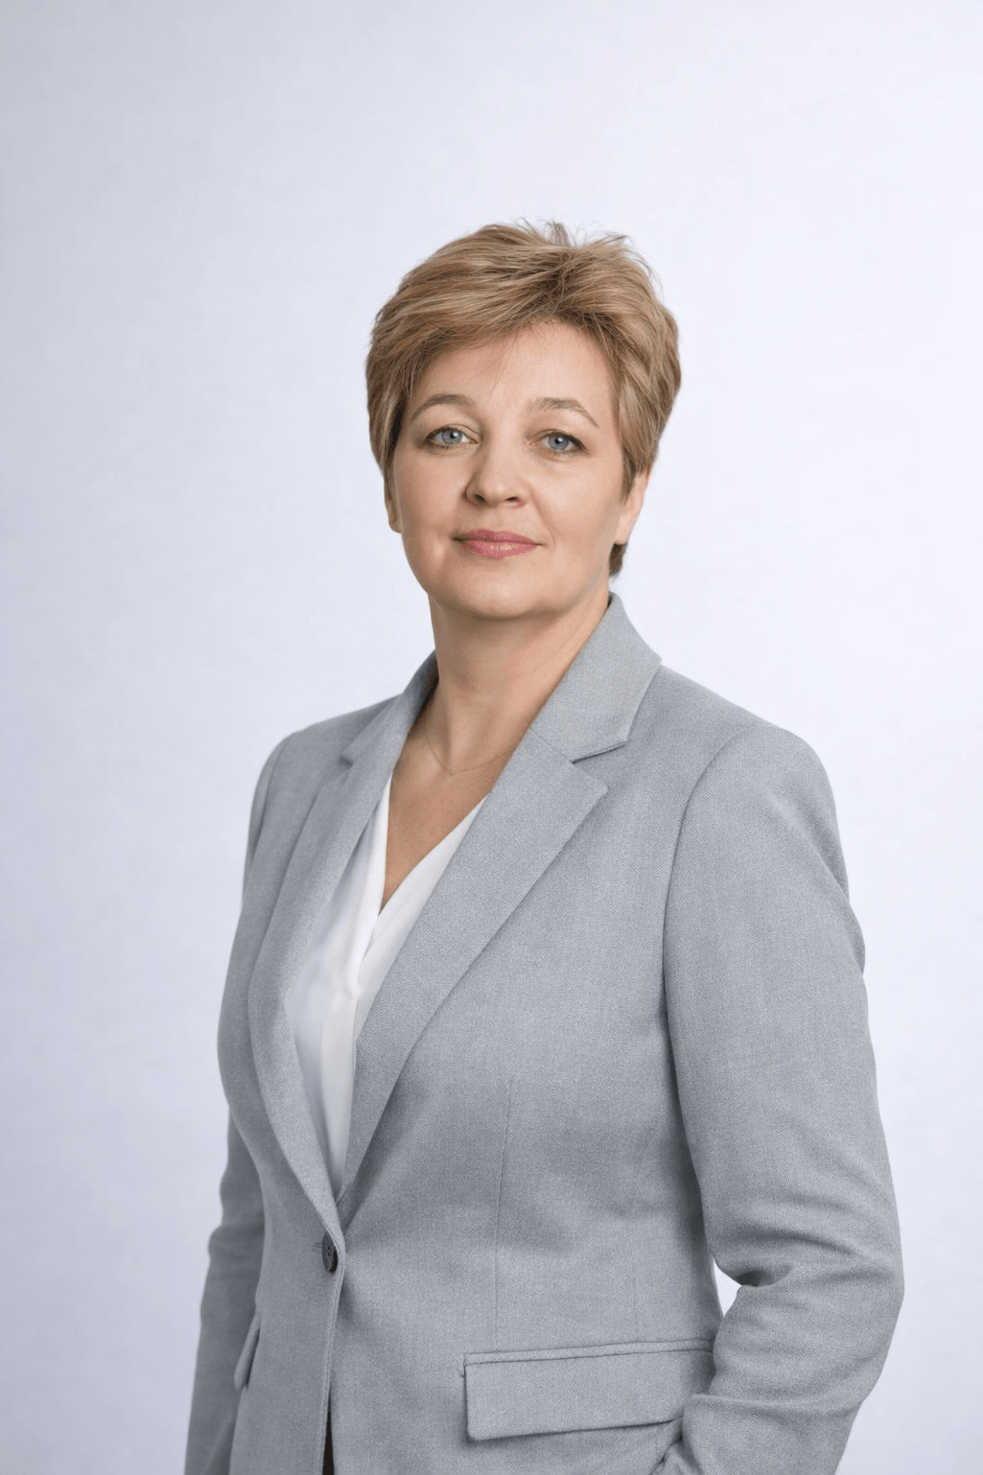
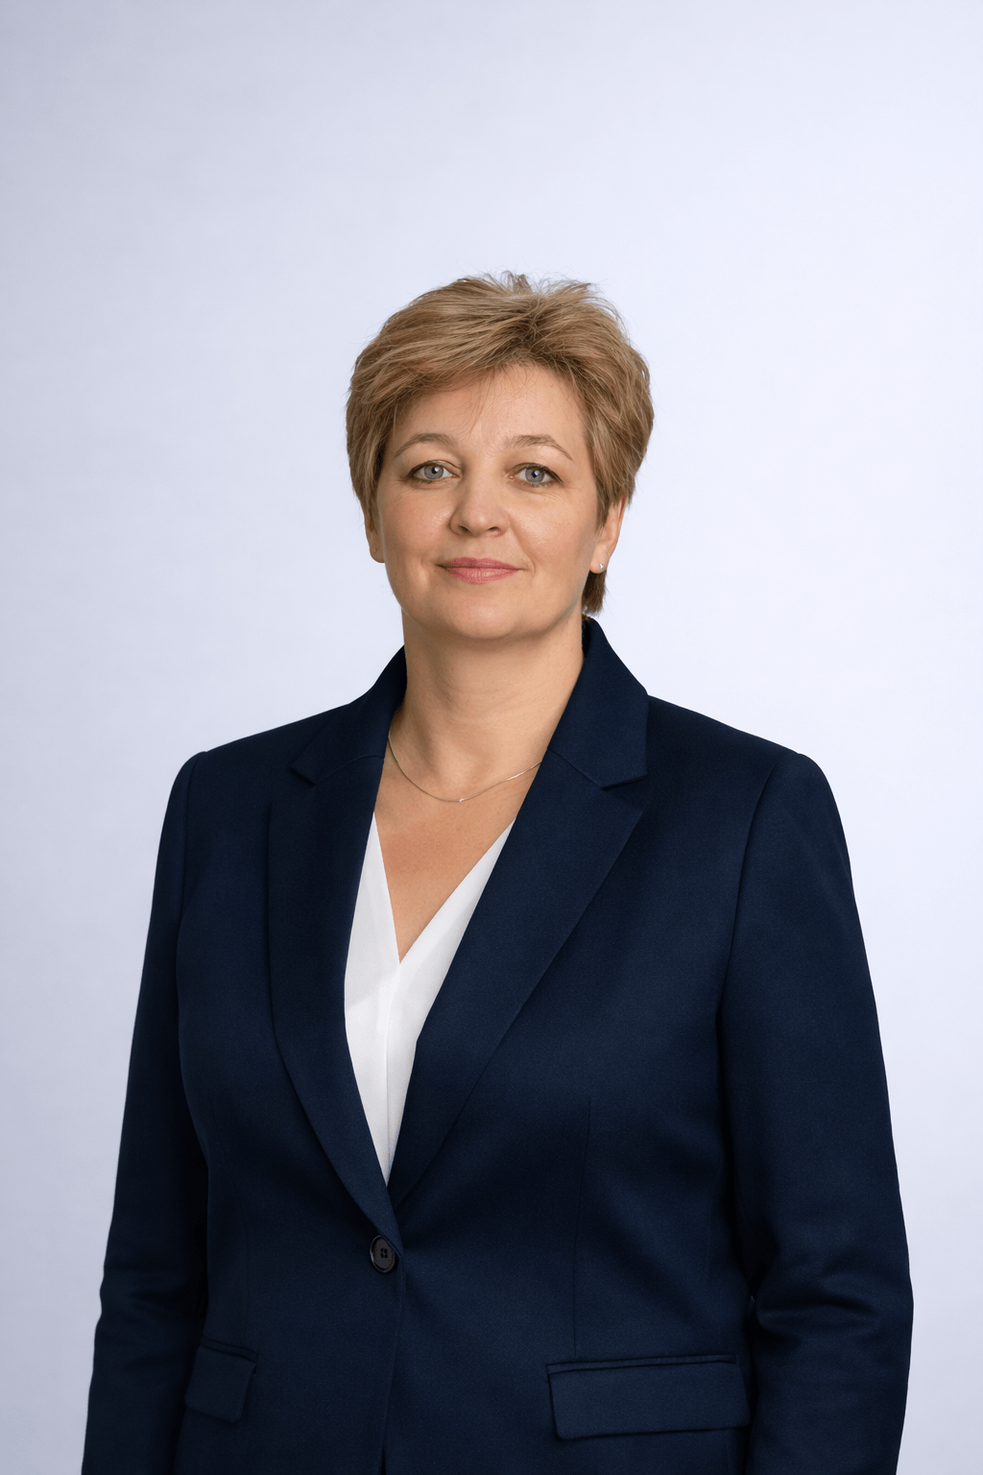
perf: optimize pagespeed and add new galina photo
- Add preconnect links for Tailwind CDN and Google Fonts
- Add explicit width/height to all images (prevent CLS)
- Add loading="lazy" to below-fold images
- Add fetchpriority="high" to header logos
- Update galina-chernova.png photo

diff --git a/index.html b/index.html
@@ -1,10 +1,20 @@
 <!DOCTYPE html>
 <html lang="ru">
 <head>
+
+    <!-- Preconnect для внешних ресурсов -->
+    <link rel="preconnect" href="https://cdn.tailwindcss.com">
+    <link rel="preconnect" href="https://fonts.googleapis.com">
+    <link rel="preconnect" href="https://fonts.gstatic.com" crossorigin>
     <meta charset="UTF-8">
     <meta name="viewport" content="width=device-width, initial-scale=1.0">
     <title>Школа тендерного обучения «Фрегат» — Профессия Тендерный специалист</title>
     <meta name="description" content="Онлайн-школа Фрегат. Обучение тендерному делу с нуля. Госзакупки, 44-ФЗ, 223-ФЗ. Удостоверение о повышении квалификации и сертификат.">
+
+    <!-- Preconnect для внешних ресурсов -->
+    <link rel="preconnect" href="https://cdn.tailwindcss.com">
+    <link rel="preconnect" href="https://fonts.googleapis.com">
+    <link rel="preconnect" href="https://fonts.gstatic.com" crossorigin>
 
     <!-- Content Security Policy -->
     <meta http-equiv="Content-Security-Policy" content="script-src 'self' 'unsafe-inline' https://cdn.tailwindcss.com; connect-src 'self'; style-src 'self' https://fonts.googleapis.com 'unsafe-inline'; img-src 'self' https: data:;">
@@ -138,7 +148,7 @@
     <header class="fixed w-full top-0 z-50 backdrop-blur-md border-b border-white/10" style="background-color: rgba(20, 33, 37, 0.95);">
         <div class="max-w-7xl mx-auto px-4 sm:px-6 lg:px-8 flex justify-between items-center h-20">
             <a href="index.html" class="flex items-center gap-3">
-                <img src="https://z-cdn-media.chatglm.cn/files/13817077-3fd8-4076-ab8b-31702a8b0e59.png?auth_key=1873167472-1ad3307f6b1647739973096b31e2b490-0-f38e570a642956a5ac3e872ef08c03d4" alt="Логотип Фрегат" class="h-12 w-auto logo-clean">
+                <img src="https://z-cdn-media.chatglm.cn/files/13817077-3fd8-4076-ab8b-31702a8b0e59.png?auth_key=1873167472-1ad3307f6b1647739973096b31e2b490-0-f38e570a642956a5ac3e872ef08c03d4" alt="Логотип Фрегат" class="h-12 w-auto logo-clean" width="200" height="48" fetchpriority="high">
                 <span class="text-2xl font-light tracking-widest text-gold-gradient">ФРЕГАТ</span>
             </a>
             <nav class="hidden md:flex gap-10 text-sm text-gray-300">
@@ -608,7 +618,7 @@
             <div class="grid md:grid-cols-2 gap-8 items-stretch">
                 <!-- Фарида -->
                 <div class="bg-[#0d181b] border border-white/10 rounded-2xl p-8 animate-section flex flex-col">
-                    <img src="assets/images/farida.jpg" alt="Фарида Максумова — основатель Школы Фрегат" class="w-24 h-24 rounded-full mx-auto mb-4 object-cover object-top border-2 border-gold/30">
+                    <img src="assets/images/farida.jpg" alt="Фарида Максумова — основатель Школы Фрегат" class="w-24 h-24 rounded-full mx-auto mb-4 object-cover object-top border-2 border-gold/30" width="96" height="96" loading="lazy">
                     <h3 class="text-xl font-bold mb-1 text-white text-center">Фарида Максумова</h3>
                     <p class="text-gold-gradient text-xs mb-4 uppercase tracking-wider text-center">Генеральный директор ООО «ФРЕГАТ»</p>
 
@@ -634,7 +644,7 @@
 
                 <!-- Галина -->
                 <div class="bg-[#0d181b] border border-white/10 rounded-2xl p-8 animate-section flex flex-col">
-                    <img src="assets/images/galina-chernova.png" alt="Галина Чернова — главный эксперт по тендерам" class="w-24 h-24 rounded-full mx-auto mb-4 object-cover object-top border-2 border-gold/30">
+                    <img src="assets/images/galina-chernova.png" alt="Галина Чернова — главный эксперт по тендерам" class="w-24 h-24 rounded-full mx-auto mb-4 object-cover object-top border-2 border-gold/30" width="96" height="96" loading="lazy">
                     <h3 class="text-xl font-bold mb-1 text-white text-center">Галина Чернова</h3>
                     <p class="text-gold-gradient text-xs mb-4 uppercase tracking-wider text-center">Главный эксперт по тендерам</p>
 
@@ -1156,7 +1166,7 @@
                 <!-- Логотип и описание -->
                 <div>
                     <div class="flex items-center gap-3 mb-4">
-                        <img src="https://z-cdn-media.chatglm.cn/files/13817077-3fd8-4076-ab8b-31702a8b0e59.png?auth_key=1873167472-1ad3307f6b1647739973096b31e2b490-0-f38e570a642956a5ac3e872ef08c03d4" alt="Логотип Фрегат" class="h-8 w-auto logo-clean">
+                        <img src="https://z-cdn-media.chatglm.cn/files/13817077-3fd8-4076-ab8b-31702a8b0e59.png?auth_key=1873167472-1ad3307f6b1647739973096b31e2b490-0-f38e570a642956a5ac3e872ef08c03d4" alt="Логотип Фрегат" class="h-8 w-auto logo-clean" width="150" height="32" loading="lazy">
                         <span class="text-xl font-light tracking-widest text-gold-gradient">ФРЕГАТ</span>
                     </div>
                     <p class="text-gray-500 text-sm">

diff --git a/prepodavateli.html b/prepodavateli.html
@@ -1,6 +1,11 @@
 <!DOCTYPE html>
 <html lang="ru">
 <head>
+
+    <!-- Preconnect для внешних ресурсов -->
+    <link rel="preconnect" href="https://cdn.tailwindcss.com">
+    <link rel="preconnect" href="https://fonts.googleapis.com">
+    <link rel="preconnect" href="https://fonts.gstatic.com" crossorigin>
     <meta charset="UTF-8">
     <meta name="viewport" content="width=device-width, initial-scale=1.0">
     <title>Ваши наставники — Школа Фрегат</title>
@@ -111,7 +116,7 @@
     <header class="fixed w-full top-0 z-50 backdrop-blur-md border-b border-white/10" style="background-color: rgba(20, 33, 37, 0.95);">
         <div class="max-w-7xl mx-auto px-4 sm:px-6 lg:px-8 flex justify-between items-center h-20">
             <a href="index.html" class="flex items-center gap-3">
-                <img src="https://z-cdn-media.chatglm.cn/files/13817077-3fd8-4076-ab8b-31702a8b0e59.png?auth_key=1873167472-1ad3307f6b1647739973096b31e2b490-0-f38e570a642956a5ac3e872ef08c03d4" alt="Логотип Фрегат" class="h-12 w-auto logo-clean">
+                <img src="https://z-cdn-media.chatglm.cn/files/13817077-3fd8-4076-ab8b-31702a8b0e59.png?auth_key=1873167472-1ad3307f6b1647739973096b31e2b490-0-f38e570a642956a5ac3e872ef08c03d4" alt="Логотип Фрегат" class="h-12 w-auto logo-clean" width="200" height="48" fetchpriority="high">
                 <span class="text-2xl font-light tracking-widest text-gold-gradient">ФРЕГАТ</span>
             </a>
             <nav class="hidden md:flex gap-10 text-sm text-gray-300 items-center">
@@ -149,7 +154,7 @@
 
                 <!-- Фарида — Основатель школы -->
                 <div class="card" id="farida">
-                    <img src="assets/images/farida.jpg" alt="Фарида Максумова — основатель Школы Фрегат" class="w-32 h-32 rounded-full mx-auto mb-4 object-cover object-top border-2 border-gold/30">
+                    <img src="assets/images/farida.jpg" alt="Фарида Максумова — основатель Школы Фрегат" class="w-32 h-32 rounded-full mx-auto mb-4 object-cover object-top border-2 border-gold/30" width="128" height="128" loading="lazy">
                     <h3 class="text-xl font-semibold mb-2 text-center">Фарида Максумова</h3>
                     <p class="text-gold mb-3 text-center text-sm">Генеральный директор ООО «ФРЕГАТ»</p>
                     <div class="text-gray-400 text-sm space-y-2 mb-4">
@@ -166,7 +171,7 @@
 
                 <!-- Галина — Главный эксперт -->
                 <div class="card" id="galina">
-                    <img src="assets/images/galina-chernova.png" alt="Галина Чернова — главный эксперт по тендерам" class="w-32 h-32 rounded-full mx-auto mb-4 object-cover object-top border-2 border-gold/30">
+                    <img src="assets/images/galina-chernova.png" alt="Галина Чернова — главный эксперт по тендерам" class="w-32 h-32 rounded-full mx-auto mb-4 object-cover object-top border-2 border-gold/30" width="128" height="128" loading="lazy">
                     <h3 class="text-xl font-semibold mb-2 text-center">Галина Чернова</h3>
                     <p class="text-gold mb-3 text-center text-sm">Главный эксперт по тендерам</p>
                     <div class="text-gray-400 text-sm space-y-2 mb-4">
@@ -311,7 +316,7 @@
                 <!-- Логотип и описание -->
                 <div>
                     <div class="flex items-center gap-3 mb-4">
-                        <img src="https://z-cdn-media.chatglm.cn/files/13817077-3fd8-4076-ab8b-31702a8b0e59.png?auth_key=1873167472-1ad3307f6b1647739973096b31e2b490-0-f38e570a642956a5ac3e872ef08c03d4" alt="Логотип Фрегат" class="h-8 w-auto logo-clean">
+                        <img src="https://z-cdn-media.chatglm.cn/files/13817077-3fd8-4076-ab8b-31702a8b0e59.png?auth_key=1873167472-1ad3307f6b1647739973096b31e2b490-0-f38e570a642956a5ac3e872ef08c03d4" alt="Логотип Фрегат" class="h-8 w-auto logo-clean" width="150" height="32" loading="lazy">
                         <span class="text-xl font-light tracking-widest text-gold-gradient">ФРЕГАТ</span>
                     </div>
                     <p class="text-gray-500 text-sm">

diff --git a/svedeniya-ob-obrazovatelnoy-organizatsii.html b/svedeniya-ob-obrazovatelnoy-organizatsii.html
@@ -1,6 +1,11 @@
 <!DOCTYPE html>
 <html lang="ru">
 <head>
+
+    <!-- Preconnect для внешних ресурсов -->
+    <link rel="preconnect" href="https://cdn.tailwindcss.com">
+    <link rel="preconnect" href="https://fonts.googleapis.com">
+    <link rel="preconnect" href="https://fonts.gstatic.com" crossorigin>
     <meta charset="UTF-8">
     <meta name="viewport" content="width=device-width, initial-scale=1.0">
     <title>Сведения об образовательной организации — Школа Фрегат</title>
@@ -200,7 +205,7 @@
     <header class="fixed w-full top-0 z-50 backdrop-blur-md border-b border-white/10" style="background-color: rgba(20, 33, 37, 0.95);">
         <div class="max-w-7xl mx-auto px-4 sm:px-6 lg:px-8 flex justify-between items-center h-20">
             <a href="index.html" class="flex items-center gap-3">
-                <img src="https://z-cdn-media.chatglm.cn/files/13817077-3fd8-4076-ab8b-31702a8b0e59.png?auth_key=1873167472-1ad3307f6b1647739973096b31e2b490-0-f38e570a642956a5ac3e872ef08c03d4" alt="Логотип Фрегат" class="h-12 w-auto logo-clean">
+                <img src="https://z-cdn-media.chatglm.cn/files/13817077-3fd8-4076-ab8b-31702a8b0e59.png?auth_key=1873167472-1ad3307f6b1647739973096b31e2b490-0-f38e570a642956a5ac3e872ef08c03d4" alt="Логотип Фрегат" class="h-12 w-auto logo-clean" width="200" height="48" fetchpriority="high">
                 <span class="text-2xl font-light tracking-widest text-gold-gradient">ФРЕГАТ</span>
             </a>
             <nav class="hidden md:flex gap-10 text-sm text-gray-300 items-center">
@@ -814,7 +819,7 @@
                 <!-- Логотип и описание -->
                 <div>
                     <div class="flex items-center gap-3 mb-4">
-                        <img src="https://z-cdn-media.chatglm.cn/files/13817077-3fd8-4076-ab8b-31702a8b0e59.png?auth_key=1873167472-1ad3307f6b1647739973096b31e2b490-0-f38e570a642956a5ac3e872ef08c03d4" alt="Логотип Фрегат" class="h-8 w-auto logo-clean">
+                        <img src="https://z-cdn-media.chatglm.cn/files/13817077-3fd8-4076-ab8b-31702a8b0e59.png?auth_key=1873167472-1ad3307f6b1647739973096b31e2b490-0-f38e570a642956a5ac3e872ef08c03d4" alt="Логотип Фрегат" class="h-8 w-auto logo-clean" width="150" height="32" loading="lazy">
                         <span class="text-xl font-light tracking-widest text-gold-gradient">ФРЕГАТ</span>
                     </div>
                     <p class="text-gray-500 text-sm">

diff --git a/politika-konfidentsialnosti.html b/politika-konfidentsialnosti.html
@@ -1,6 +1,11 @@
 <!DOCTYPE html>
 <html lang="ru">
 <head>
+
+    <!-- Preconnect для внешних ресурсов -->
+    <link rel="preconnect" href="https://cdn.tailwindcss.com">
+    <link rel="preconnect" href="https://fonts.googleapis.com">
+    <link rel="preconnect" href="https://fonts.gstatic.com" crossorigin>
     <meta charset="UTF-8">
     <meta name="viewport" content="width=device-width, initial-scale=1.0">
     <title>Политика конфиденциальности — Школа Фрегат</title>
@@ -91,7 +96,7 @@
     <header class="fixed w-full top-0 z-50 backdrop-blur-md border-b border-white/10" style="background-color: rgba(20, 33, 37, 0.95);">
         <div class="max-w-7xl mx-auto px-4 sm:px-6 lg:px-8 flex justify-between items-center h-20">
             <a href="index.html" class="flex items-center gap-3">
-                <img src="https://z-cdn-media.chatglm.cn/files/13817077-3fd8-4076-ab8b-31702a8b0e59.png?auth_key=1873167472-1ad3307f6b1647739973096b31e2b490-0-f38e570a642956a5ac3e872ef08c03d4" alt="Логотип Фрегат" class="h-12 w-auto logo-clean">
+                <img src="https://z-cdn-media.chatglm.cn/files/13817077-3fd8-4076-ab8b-31702a8b0e59.png?auth_key=1873167472-1ad3307f6b1647739973096b31e2b490-0-f38e570a642956a5ac3e872ef08c03d4" alt="Логотип Фрегат" class="h-12 w-auto logo-clean" width="200" height="48" fetchpriority="high">
                 <span class="text-2xl font-light tracking-widest text-gold-gradient">ФРЕГАТ</span>
             </a>
             <nav class="hidden md:flex gap-10 text-sm text-gray-300 items-center">
@@ -263,7 +268,7 @@
             <div class="grid md:grid-cols-3 gap-8 mb-8">
                 <div>
                     <div class="flex items-center gap-3 mb-4">
-                        <img src="https://z-cdn-media.chatglm.cn/files/13817077-3fd8-4076-ab8b-31702a8b0e59.png?auth_key=1873167472-1ad3307f6b1647739973096b31e2b490-0-f38e570a642956a5ac3e872ef08c03d4" alt="Логотип Фрегат" class="h-8 w-auto logo-clean">
+                        <img src="https://z-cdn-media.chatglm.cn/files/13817077-3fd8-4076-ab8b-31702a8b0e59.png?auth_key=1873167472-1ad3307f6b1647739973096b31e2b490-0-f38e570a642956a5ac3e872ef08c03d4" alt="Логотип Фрегат" class="h-8 w-auto logo-clean" width="150" height="32" loading="lazy">
                         <span class="text-xl font-light tracking-widest text-gold-gradient">ФРЕГАТ</span>
                     </div>
                     <p class="text-gray-500 text-sm">

diff --git a/polzovatelskoe-soglashenie.html b/polzovatelskoe-soglashenie.html
@@ -1,6 +1,11 @@
 <!DOCTYPE html>
 <html lang="ru">
 <head>
+
+    <!-- Preconnect для внешних ресурсов -->
+    <link rel="preconnect" href="https://cdn.tailwindcss.com">
+    <link rel="preconnect" href="https://fonts.googleapis.com">
+    <link rel="preconnect" href="https://fonts.gstatic.com" crossorigin>
     <meta charset="UTF-8">
     <meta name="viewport" content="width=device-width, initial-scale=1.0">
     <title>Пользовательское соглашение — Школа Фрегат</title>
@@ -91,7 +96,7 @@
     <header class="fixed w-full top-0 z-50 backdrop-blur-md border-b border-white/10" style="background-color: rgba(20, 33, 37, 0.95);">
         <div class="max-w-7xl mx-auto px-4 sm:px-6 lg:px-8 flex justify-between items-center h-20">
             <a href="index.html" class="flex items-center gap-3">
-                <img src="https://z-cdn-media.chatglm.cn/files/13817077-3fd8-4076-ab8b-31702a8b0e59.png?auth_key=1873167472-1ad3307f6b1647739973096b31e2b490-0-f38e570a642956a5ac3e872ef08c03d4" alt="Логотип Фрегат" class="h-12 w-auto logo-clean">
+                <img src="https://z-cdn-media.chatglm.cn/files/13817077-3fd8-4076-ab8b-31702a8b0e59.png?auth_key=1873167472-1ad3307f6b1647739973096b31e2b490-0-f38e570a642956a5ac3e872ef08c03d4" alt="Логотип Фрегат" class="h-12 w-auto logo-clean" width="200" height="48" fetchpriority="high">
                 <span class="text-2xl font-light tracking-widest text-gold-gradient">ФРЕГАТ</span>
             </a>
             <nav class="hidden md:flex gap-10 text-sm text-gray-300 items-center">
@@ -292,7 +297,7 @@
             <div class="grid md:grid-cols-3 gap-8 mb-8">
                 <div>
                     <div class="flex items-center gap-3 mb-4">
-                        <img src="https://z-cdn-media.chatglm.cn/files/13817077-3fd8-4076-ab8b-31702a8b0e59.png?auth_key=1873167472-1ad3307f6b1647739973096b31e2b490-0-f38e570a642956a5ac3e872ef08c03d4" alt="Логотип Фрегат" class="h-8 w-auto logo-clean">
+                        <img src="https://z-cdn-media.chatglm.cn/files/13817077-3fd8-4076-ab8b-31702a8b0e59.png?auth_key=1873167472-1ad3307f6b1647739973096b31e2b490-0-f38e570a642956a5ac3e872ef08c03d4" alt="Логотип Фрегат" class="h-8 w-auto logo-clean" width="150" height="32" loading="lazy">
                         <span class="text-xl font-light tracking-widest text-gold-gradient">ФРЕГАТ</span>
                     </div>
                     <p class="text-gray-500 text-sm">

diff --git a/kontakty.html b/kontakty.html
@@ -1,6 +1,11 @@
 <!DOCTYPE html>
 <html lang="ru">
 <head>
+
+    <!-- Preconnect для внешних ресурсов -->
+    <link rel="preconnect" href="https://cdn.tailwindcss.com">
+    <link rel="preconnect" href="https://fonts.googleapis.com">
+    <link rel="preconnect" href="https://fonts.gstatic.com" crossorigin>
     <meta charset="UTF-8">
     <meta name="viewport" content="width=device-width, initial-scale=1.0">
     <title>Контакты — Школа Фрегат</title>
@@ -103,7 +108,7 @@
     <header class="fixed w-full top-0 z-50 backdrop-blur-md border-b border-white/10" style="background-color: rgba(20, 33, 37, 0.95);">
         <div class="max-w-7xl mx-auto px-4 sm:px-6 lg:px-8 flex justify-between items-center h-20">
             <a href="index.html" class="flex items-center gap-3">
-                <img src="https://z-cdn-media.chatglm.cn/files/13817077-3fd8-4076-ab8b-31702a8b0e59.png?auth_key=1873167472-1ad3307f6b1647739973096b31e2b490-0-f38e570a642956a5ac3e872ef08c03d4" alt="Логотип Фрегат" class="h-12 w-auto logo-clean">
+                <img src="https://z-cdn-media.chatglm.cn/files/13817077-3fd8-4076-ab8b-31702a8b0e59.png?auth_key=1873167472-1ad3307f6b1647739973096b31e2b490-0-f38e570a642956a5ac3e872ef08c03d4" alt="Логотип Фрегат" class="h-12 w-auto logo-clean" width="200" height="48" fetchpriority="high">
                 <span class="text-2xl font-light tracking-widest text-gold-gradient">ФРЕГАТ</span>
             </a>
             <nav class="hidden md:flex gap-10 text-sm text-gray-300">
@@ -223,7 +228,7 @@
                 <!-- Логотип и описание -->
                 <div>
                     <div class="flex items-center gap-3 mb-4">
-                        <img src="https://z-cdn-media.chatglm.cn/files/13817077-3fd8-4076-ab8b-31702a8b0e59.png?auth_key=1873167472-1ad3307f6b1647739973096b31e2b490-0-f38e570a642956a5ac3e872ef08c03d4" alt="Логотип Фрегат" class="h-8 w-auto logo-clean">
+                        <img src="https://z-cdn-media.chatglm.cn/files/13817077-3fd8-4076-ab8b-31702a8b0e59.png?auth_key=1873167472-1ad3307f6b1647739973096b31e2b490-0-f38e570a642956a5ac3e872ef08c03d4" alt="Логотип Фрегат" class="h-8 w-auto logo-clean" width="150" height="32" loading="lazy">
                         <span class="text-xl font-light tracking-widest text-gold-gradient">ФРЕГАТ</span>
                     </div>
                     <p class="text-gray-500 text-sm">

diff --git a/o-shkole.html b/o-shkole.html
@@ -1,6 +1,11 @@
 <!DOCTYPE html>
 <html lang="ru">
 <head>
+
+    <!-- Preconnect для внешних ресурсов -->
+    <link rel="preconnect" href="https://cdn.tailwindcss.com">
+    <link rel="preconnect" href="https://fonts.googleapis.com">
+    <link rel="preconnect" href="https://fonts.gstatic.com" crossorigin>
     <meta charset="UTF-8">
     <meta name="viewport" content="width=device-width, initial-scale=1.0">
     <title>О школе — Школа Фрегат</title>
@@ -104,7 +109,7 @@
     <header class="fixed w-full top-0 z-50 backdrop-blur-md border-b border-white/10" style="background-color: rgba(20, 33, 37, 0.95);">
         <div class="max-w-7xl mx-auto px-4 sm:px-6 lg:px-8 flex justify-between items-center h-20">
             <a href="index.html" class="flex items-center gap-3">
-                <img src="https://z-cdn-media.chatglm.cn/files/13817077-3fd8-4076-ab8b-31702a8b0e59.png?auth_key=1873167472-1ad3307f6b1647739973096b31e2b490-0-f38e570a642956a5ac3e872ef08c03d4" alt="Логотип Фрегат" class="h-12 w-auto logo-clean">
+                <img src="https://z-cdn-media.chatglm.cn/files/13817077-3fd8-4076-ab8b-31702a8b0e59.png?auth_key=1873167472-1ad3307f6b1647739973096b31e2b490-0-f38e570a642956a5ac3e872ef08c03d4" alt="Логотип Фрегат" class="h-12 w-auto logo-clean" width="200" height="48" fetchpriority="high">
                 <span class="text-2xl font-light tracking-widest text-gold-gradient">ФРЕГАТ</span>
             </a>
             <nav class="hidden md:flex gap-10 text-sm text-gray-300">
@@ -263,7 +268,7 @@
                 <!-- Логотип и описание -->
                 <div>
                     <div class="flex items-center gap-3 mb-4">
-                        <img src="https://z-cdn-media.chatglm.cn/files/13817077-3fd8-4076-ab8b-31702a8b0e59.png?auth_key=1873167472-1ad3307f6b1647739973096b31e2b490-0-f38e570a642956a5ac3e872ef08c03d4" alt="Логотип Фрегат" class="h-8 w-auto logo-clean">
+                        <img src="https://z-cdn-media.chatglm.cn/files/13817077-3fd8-4076-ab8b-31702a8b0e59.png?auth_key=1873167472-1ad3307f6b1647739973096b31e2b490-0-f38e570a642956a5ac3e872ef08c03d4" alt="Логотип Фрегат" class="h-8 w-auto logo-clean" width="150" height="32" loading="lazy">
                         <span class="text-xl font-light tracking-widest text-gold-gradient">ФРЕГАТ</span>
                     </div>
                     <p class="text-gray-500 text-sm">
